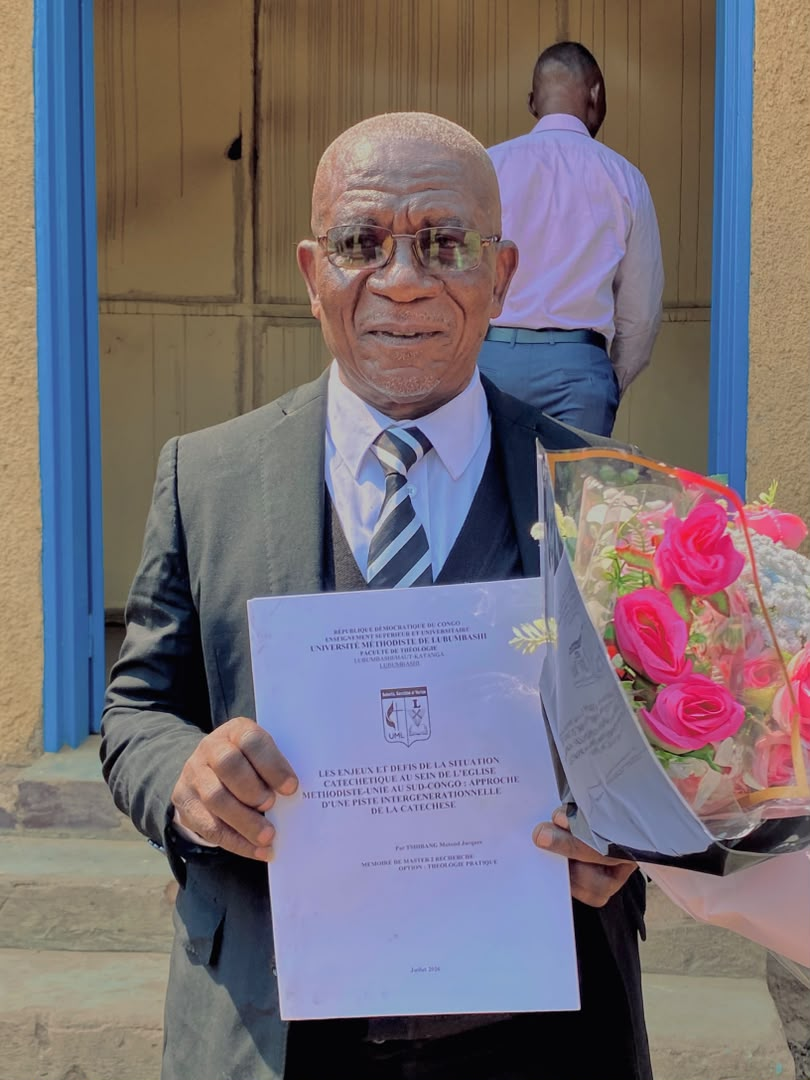
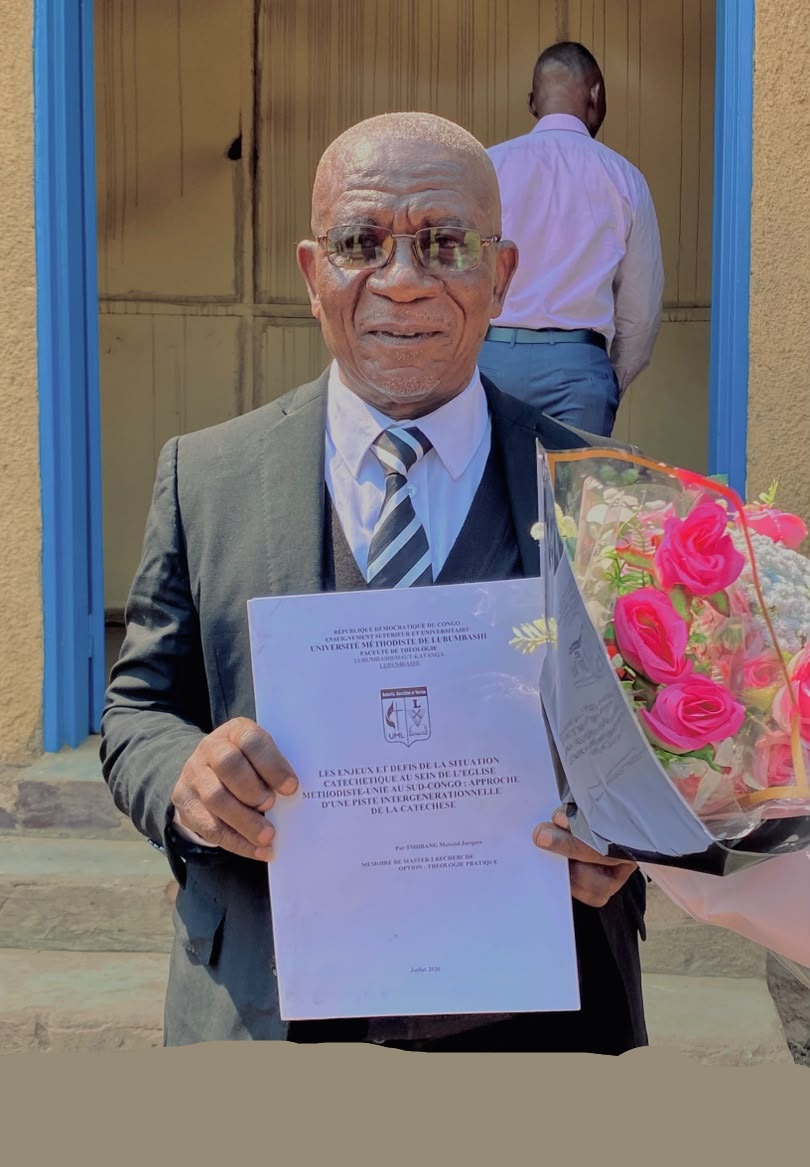
Galerie : ajout du markup lightbox manquant dans index.html — clic sur une photo l'agrandit et permet de défiler d'une image à l'autre (‹ ›, clavier, clic hors image)

diff --git a/frontend/index.html b/frontend/index.html
@@ -117,7 +117,7 @@
       <div class="event-statique">
         <span class="event-statique-icone">🎓</span>
         <h4 data-i18n="evenements.s1_titre">Rentrée académique</h4>
-        <p data-i18n="evenements.s1_desc">Accueil des nouveaux étudiants et ouverture solennelle de l'année.</p>
+        <p data-i18n="evenements.s1_desc">Accueil des nouveaux étudiants et ouverture solennelle de l'année est prévue pour le 19 Août 2026</p>
       </div>
       <div class="event-statique">
         <span class="event-statique-icone">🔬</span>
@@ -127,12 +127,12 @@
       <div class="event-statique">
         <span class="event-statique-icone">🏅</span>
         <h4 data-i18n="evenements.s3_titre">Collation des grades</h4>
-        <p data-i18n="evenements.s3_desc">Cérémonie solennelle de remise des diplômes aux lauréats.</p>
+        <p data-i18n="evenements.s3_desc">Cérémonie solennelle de remise des diplômes aux lauréats est prévue pour ce 01 Août 2026.</p>
       </div>
     </div>
 
     <!-- PARTIE DYNAMIQUE — événements ajoutés par l'administration (Annonces & événements) -->
-    <h3 class="evenements-sous-titre" data-i18n="evenements.dynamique_titre">Prochains événements</h3>
+    <!--<h3 class="evenements-sous-titre" data-i18n="evenements.dynamique_titre">Prochains événements</h3>-->
       <div class="events-grid" id="evenements-grid">
         <p style="text-align:center;color:#888;grid-column:1/-1">Chargement des événements...</p>
       </div>
@@ -152,7 +152,7 @@
           <img src="img/Uml defense master (15).jpeg" alt="Étudiant présentant sa défense de Master" loading="lazy">
           <div class="galerie-overlay">
             <span class="galerie-tag">Défenses</span>
-            <p>Présentation devant le jury académique</p>
+            <p>Réverend Recteur P.O Jean-Marie Nkon de l'UML, lors de la cérémonie de remise des défenses</p>
           </div>
         </div>
 
@@ -504,6 +504,17 @@
     </div>
 
   </footer>
+
+  <!-- LIGHTBOX GALERIE : agrandissement + navigation entre photos -->
+  <div class="lightbox" id="lightbox" role="dialog" aria-modal="true" aria-label="Photo agrandie">
+    <button class="lb-fermer" onclick="fermerLightbox()" aria-label="Fermer">✕</button>
+    <button class="lb-prev" onclick="changerPhoto(-1)" aria-label="Photo précédente">‹</button>
+    <div class="lb-contenu">
+      <img id="lb-img" src="" alt="">
+      <p id="lb-legende"></p>
+    </div>
+    <button class="lb-next" onclick="changerPhoto(1)" aria-label="Photo suivante">›</button>
+  </div>
 
   <script src="js/config.js"></script>
   <script src="js/ui.js"></script>
